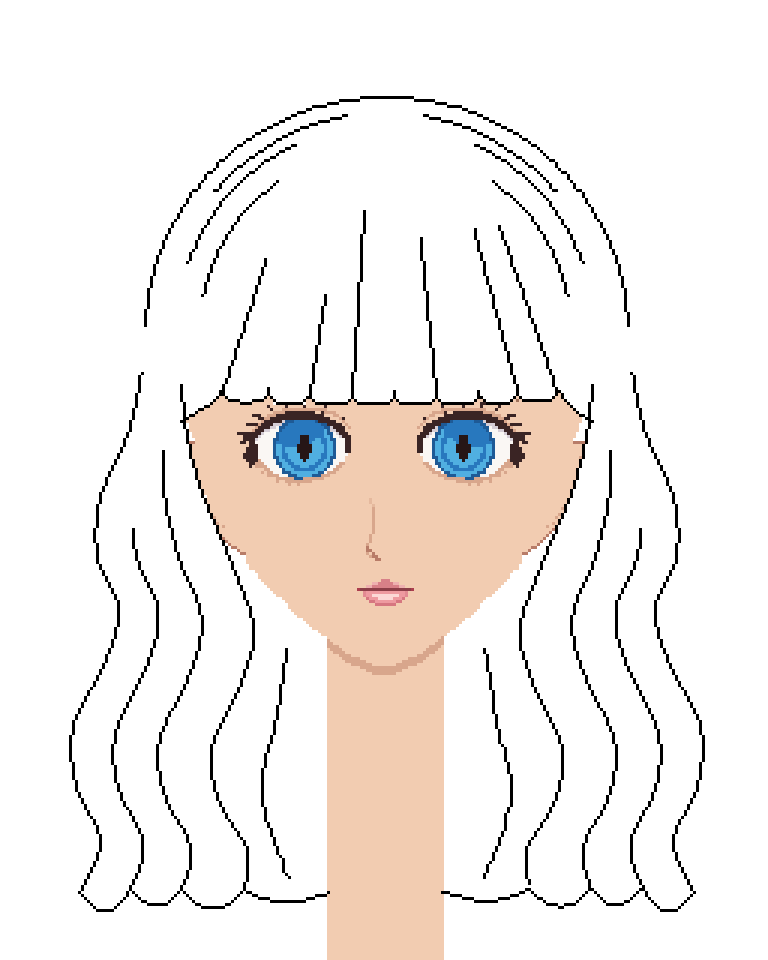
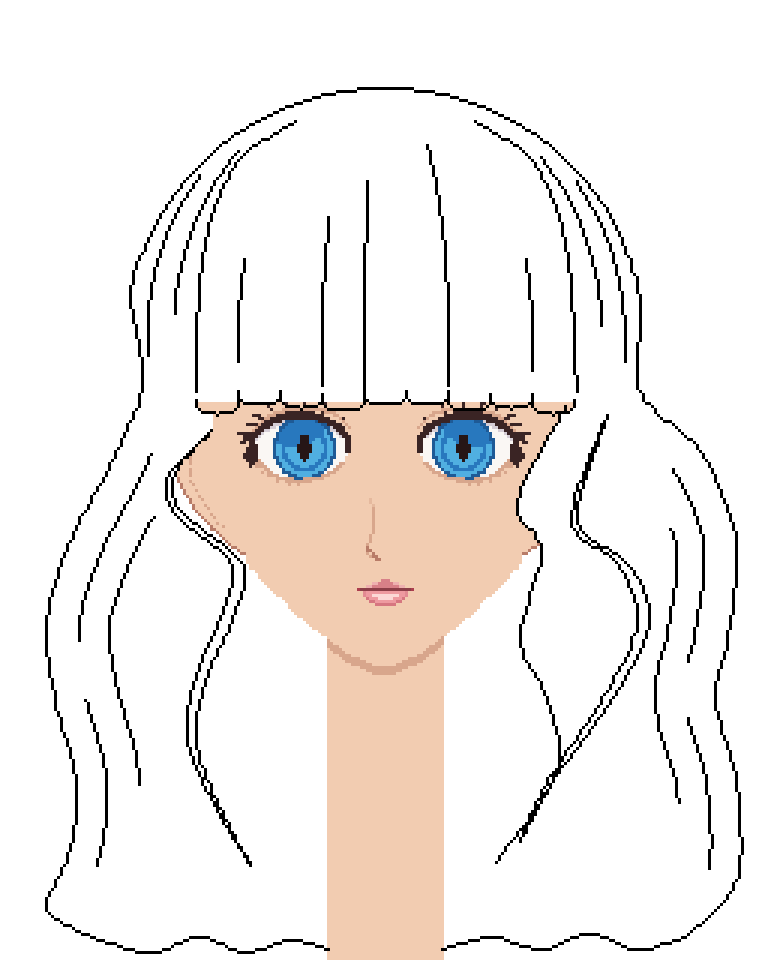
臉模 v2：大波浪第 3 步先做前髮（照使用者紅線）：額頭中間開始的短線、Λ 分岔、下緣往下尖的髮尾
Claude-Session: https://claude.ai/code/session_01FDQv7ddy7JMjePn6AqJ3VJ

diff --git a/web/droom/face_mold/v2/hair_wavy.py b/web/droom/face_mold/v2/hair_wavy.py
@@ -5,7 +5,7 @@
 #   內側那束：從太陽穴下來，蓋到臉頰邊緣（Inner strands overlap the face），過了下巴往外、波浪往下
 #   前髮：眉毛高度一條線，寬到兩邊太陽穴
 #   髮尾：底下幾個捲起來的尖
-# 用法：python3 hair_wavy.py <有 front_f.png 的資料夾> <第2步輸出.png> [第3步輸出.png]
+# 用法：python3 hair_wavy.py <有 front_f.png 的資料夾> <第2步輸出.png> [第3步輸出.png] [前髮輸出.png]
 import os,sys,math
 import numpy as np
 from PIL import Image
@@ -70,80 +70,107 @@ if __name__=='__main__':
   D=sys.argv[1];img=np.array(Image.open(f'{D}/front_f.png').convert('RGB'))
   o=outline(img)
   Image.fromarray(o).resize((N*3,H*3),Image.NEAREST).save(sys.argv[2])
-# ---------------- 第 3 步：前髮一束束、髮流線、兩側分束（還是只有黑線；頭髮蓋住的地方塗白） ----------------
+# ---------------- 第 3 步：髮流線（教學圖：Draw streaks — they show the direction the hair is combed） ----------------
+# 頭髮從頭頂的髮旋往下梳 → 髮流線從髮旋沿著頭的圓弧往下散開；前髮下緣一束束（剪齊、束和束之間小缺口）；
+# 兩側的髮流線跟著外輪廓的波浪一段一段；內側髮束加第二條邊（有寬度）；頭髮蓋住的地方塗白（耳朵、額頭、脖子後面）
 from PIL import ImageDraw
-def xfun(pts):
-  P=np.array(crom(pts));o=np.argsort(P[:,1]);return lambda y:np.interp(y,P[o,1],P[o,0])
+import random
+W=(CX-2,36)                                              # 髮旋（頭頂）
+RO2=86
+def mer(phi,y):
+  # 從髮旋沿著頭的圓弧往下的經線：在正面看到的 x
+  c=max(-1,min(1,(CY-y)/RO2));th=math.acos(c) if y<CY else math.pi/2
+  return CX+RO2*.97*math.sin(th)*math.sin(math.radians(phi))
+def phi_at(x,y):
+  c=max(-1,min(1,(CY-y)/RO2));th=math.acos(c) if y<CY else math.pi/2
+  return math.degrees(math.asin(max(-1,min(1,(x-CX)/(RO2*.97*math.sin(th))))))
+def offset(pts,d,lo,hi):
+  # 一條線往內（往臉中間）平移 d 格，只取 y 在 lo～hi 那段
+  P=np.array(crom(pts,12));out=[]
+  for k in range(1,len(P)-1):
+    t=P[k+1]-P[k-1];t/=np.linalg.norm(t)+1e-9;n=np.array([t[1],-t[0]])
+    if (n[0]*(CX-P[k,0]))<0:n=-n
+    q=P[k]+n*d
+    if lo<=q[1]<=hi:out.append(tuple(q))
+  return out[::3]
 def stage3(img):
-  out=extend(img)
-  domeL=[(CX+80*math.cos(a),CY-1+79*math.sin(a)) for a in np.radians(np.linspace(-90,-178,10))]
-  oL=[(46,128),(42,145),(33,166),(32,186),(39,203),(34,222),(24,242),(25,262),(33,280),(27,296),(22,304)]
-  iL=[(60,128),(62,146),(67,164),(76,186),(83,204),(84,214),(79,230),(70,250),(73,268),(82,284),(80,298),(74,306)]
-  fo,fi=xfun(domeL[-1:]+oL),xfun(iL)
-  # 前髮下緣：一束約 15 格，下緣剪齊、束和束之間往上缺一小口；兩側最外面那束長一點、往下框住臉
-  xs=[60,74,89,103,117,131,145,159,172,185,197]
-  yb=lambda x:134+.0*(x-CX)-(abs(x-CX)/68)**2*2
-  bang=[]
+  base=extend(img);out=base.copy()
+  C=curves()
+  outerL,outerR,lockL,lockR1,lockR2=C[0],C[1],C[2],C[3],C[4]
+  # 前髮下緣：一束約 14 格，剪齊；束和束之間往上缺一小口；兩邊最外那束稍長
+  xs=[65,79,93,107,121,135,149,163,177,191]
+  bang=[];rb=random.Random(3);yb={}
   for k in range(len(xs)-1):
-    a,b=xs[k],xs[k+1];ya=yb(a)-3.5;yc=yb((a+b)/2)
-    if k==0:bang+=[(a,yb(a)+8),(a+5,yb(a)+5),(b-3,yc+1),(b,ya)]
-    elif k==len(xs)-2:bang+=[(a,ya),(a+3,yc+1),(b-5,yb(b)+5),(b,yb(b)+8)]
-    else:bang+=[(a,ya),(a+2,yc),(b-2,yc),(b,ya)] if k>0 else []
-  # 填白：頭頂＋前髮、左右兩側（含耳朵、臉頰邊）
+    a,b=xs[k],xs[k+1];y=134+rb.choice([0,0,1,2])+(3 if k in(0,len(xs)-2) else 0)
+    yb[k]=y;bang+=[(a,y-4),(a+2,y),(b-2,y),(b,y-4)]
+  # 填白：整個頭髮的範圍；再把沒被頭髮蓋住的臉、脖子放回來
   m=Image.new('L',(N,H),0);d=ImageDraw.Draw(m)
-  top=domeL[::-1][:-1]+[(CX+(CX-x),y) for x,y in domeL][::-1] if False else None
-  arc=[(CX+80*math.cos(a),CY-1+79*math.sin(a)) for a in np.radians(np.linspace(-178,-2,60))]
-  d.polygon([(round(x),round(y)) for x,y in arc+[(2*CX-46+1,128)]+[(round(x),round(y)) for x,y in bang[::-1]]+[(46,128)]],fill=1)
-  ends={}
-  rnd=__import__('random').Random(4)
-  T=[0,.38,.7,1]
-  for s in(-1,1):
-    E=[300+rnd.uniform(-2,4) for _ in range(3)]
-    ends[s]=E
-    def X(t,y,s=s):
-      v=fi(y)+t*(fo(y)-fi(y));return v if s<0 else 2*CX-v+1
-    poly=[(X(1,y),y) for y in np.arange(124,E[2]-2,1)]+[(X(t,E[k]+2),E[k]+2) for k,t in((2,.85),(1,.55),(0,.2))]+[(X(0,y),y) for y in np.arange(E[0]-2,127,-1)]
-    d.polygon([(round(x),round(y)) for x,y in poly],fill=1)
-  M=np.array(m).astype(bool);out[M]=255
+  sil=crom(outerL,12)+[(50,317),(80,318),(109,317),(147,317),(180,318),(212,317)]+crom(outerR,12)[::-1]
+  d.polygon([(round(x),round(y)) for x,y in sil],fill=1);M=np.array(m).astype(bool)
+  fl=lambda y:np.interp(y,[p[1] for p in crom(lockL,12)],[p[0] for p in crom(lockL,12)])
+  r1=crom(lockR1,12);r2=crom(lockR2,12)
+  fr=lambda y:min(np.interp(y,[p[1] for p in r1],[p[0] for p in r1]),np.interp(y,[p[1] for p in r2],[p[0] for p in r2]))
+  out[M]=255
+  orig=extend(img);skin=~(orig==255).all(2)
+  for y in range(134,H):
+    for x in range(N):
+      if not skin[y,x]:continue
+      inside=(y>=137 and fl(y)<x<fr(y)) or (y<137 and 66<=x<=190) or (y>212 and 109<=x<=147)
+      if inside:out[y,x]=orig[y,x]
   L=[]
-  # 頭頂圓頂
-  L.append(domeL);L.append(mirror(domeL,dx=1))
-  # 前髮
+  L+=[outerL,outerR]
+  blk=C[5];L+=[blk[:-1]+[(CX-63,130)],C[6][:-1]+[(CX+64,130)]]       # 前面方塊的兩條邊＝前髮外緣
   L.append(bang)
-  # 前髮的分束線：從每個缺口往上，往頭頂（髮旋在頭頂中間偏後）收；長短不一，不畫到頂
-  W=(CX,40);rl=__import__('random').Random(9)
-  for k in range(1,len(xs)-1):
-    if rl.random()<.25:continue
-    a=xs[k];y0=yb(a)-3.5;ln=rl.uniform(.35,.7)
-    pts=[(a+(W[0]-a)*u*.55,y0+(W[1]-y0)*u) for u in np.linspace(0,ln,5)]
-    L.append(pts)
-  # 頭頂兩側的髮流線：從頭頂往兩邊順著圓頂下來
-  for s in(-1,1):
-    for r,a0,a1 in((70,-115,-160),(62,-125,-168),(74,-100,-140)):
-      p=[(CX+s*-r*math.cos(math.radians(a)),CY-1+r*math.sin(math.radians(a))) for a in np.linspace(a0,a1,6)]
-      L.append(p)
-  # 兩側：外輪廓、內側、中間兩條分束線（跟著波浪），每束的尾巴圓圓收起來
-  for s in(-1,1):
-    E=ends[s]
-    def X(t,y,s=s):
-      v=fi(y)+t*(fo(y)-fi(y));return v if s<0 else 2*CX-v+1
-    dome=domeL if s<0 else mirror(domeL,dx=1)
-    L.append([(X(1,y),y) for y in np.arange(124,E[2]-3,2)])            # 外輪廓
-    L.append([(X(0,y),y) for y in np.arange(128,E[0]-3,2)])            # 內側（蓋到臉頰）
-    L.append([(X(.38,y),y) for y in np.arange(150,max(E[0],E[1])-3,2)])   # 分束線（從眼睛那層開始）
-    L.append([(X(.7,y),y) for y in np.arange(176,max(E[1],E[2])-3,2)])
-    for k in range(3):                                                  # 每束的尾巴：圓弧往內捲
-      ta,tb=T[k],T[k+1];e=E[k]
-      xa,xb=X(ta,e-3),X(tb,e-3)
-      L.append([(xa,e-3),(xa+(xb-xa)*.3,e+2),(xa+(xb-xa)*.7,e+2),(xb,e-3)])
-    # 脖子後面的後髮：一條波浪線＋下緣
-    xn=109 if s<0 else 147
-    L.append([(X(0,214)+(xn-X(0,214))*.45,216),(X(0,240)+(xn-X(0,240))*.5,240),(X(0,265)+(xn-X(0,265))*.4,265),(X(0,290)+(xn-X(0,290))*.5,292)])
-    be=[(X(0,E[0]-3),E[0]-3),((X(0,E[0])+xn)/2,E[0]+1),(xn,E[0]-2)]
-    L.append(be)
+  # 前髮的髮流線：從缺口往上，沿頭的圓弧朝髮旋收；長短不一
+  rl=random.Random(9)
+  for k in(1,3,4,6,8):                                   # 不是每個缺口都拉線（太整齊像柵欄）
+    x=xs[k];ph=phi_at(x,130);y0=rl.choice([48,60,72,86]);y1=yb[k]-4-rl.choice([0,4,10])
+    L.append([(mer(ph,y),y) for y in np.linspace(y0,y1,8)])
+  # 頭頂兩側：從髮旋順著圓頂往兩側下來（在方塊外面）
+  for ph,y0,y1 in((-58,50,104),(-72,58,118),(60,52,108),(73,60,120)):
+    L.append([(mer(ph,y),y) for y in np.linspace(y0,y1,8)])
+  # 兩側長髮的髮流線：跟著外輪廓的波浪，一段一段
+  for o,(dd,lo,hi) in ((outerL,(11,150,215)),(outerL,(21,170,262)),(outerL,(10,232,290)),
+                      (outerR,(11,155,222)),(outerR,(20,175,268)),(outerR,(10,238,290))):
+    seg=offset(o,dd,lo,hi)
+    if len(seg)>2:L.append(seg)
+  # 內側髮束：加第二條邊（往外 5 格，兩頭收尖）
+  L.append(lockR1)
+  for lk in(lockL,lockR2):                               # 右邊兩束交叉：只給外面那束第二條邊（不然交叉處很亂）
+    P=crom(lk,12);n=len(P);sec=[]
+    sgn=-1 if lk[0][0]<CX else 1
+    for k in range(0,n,3):
+      w=4*math.sin(math.pi*k/(n-1));x,y=P[k];sec.append((x+sgn*w,y))
+    L+=[lk,sec]
+  # 髮尾下緣（後髮）：外輪廓尾巴到脖子
+  L+=[[(33,313),(50,317),(66,312),(82,317),(96,313),(109,316)],[(228,312),(212,316),(196,311),(180,316),(164,312),(147,316)]]
   for c in L:
     for x,y in pixels(crom(c,12)):
       if 0<=x<N and 0<=y<H:out[y,x]=INK
   return out
 if __name__=='__main__' and len(sys.argv)>3:
   o=stage3(img);Image.fromarray(o).resize((N*3,H*3),Image.NEAREST).save(sys.argv[3])
+# ---------------- 第 3 步之一：前髮（使用者 2026-11-19 在圖上畫紅線） ----------------
+# 前髮的線從額頭中間才開始（不是從頭頂），短短的；有的分成「Λ」（一束分成兩撮）；
+# 尾端超過方塊的橫線往下垂 → 前髮下緣在那幾個地方是往下尖的髮尾，不是一條直線
+BANG_LINES=[[(97,98),(99,120),(100,140)],[(97,98),(92,112),(88,125)],      # 左：Λ
+            [(127,98),(130,120),(133,142)],                               # 中：一條
+            [(155,98),(157,118),(158,137)],[(155,98),(165,118),(175,137)]] # 右：Λ
+BANG_TIPS=[(100,140),(133,142),(158,137),(175,137)]                       # 往下尖的髮尾
+def bang_edge():
+  # 前髮下緣：方塊的橫線，在每個髮尾的地方往下拉成尖
+  y0=lambda x:132+2*(1-((x-CX)/64)**2)
+  pts=[(CX-63,132)]
+  for tx,ty in BANG_TIPS:
+    pts+=[(tx-5,y0(tx-5)),(tx,ty),(tx+4,y0(tx+4))]
+  pts.append((CX+64,132))
+  return pts
+def stage3_bangs(img):
+  out=extend(img)
+  C=curves()[:-1]+[bang_edge()]+BANG_LINES
+  for c in C:
+    for x,y in pixels(crom(c,12)):
+      if 0<=x<N and 0<=y<H:out[y,x]=INK
+  return out
+if __name__=='__main__' and len(sys.argv)>4:
+  o=stage3_bangs(img);Image.fromarray(o).resize((N*3,H*3),Image.NEAREST).save(sys.argv[4])
